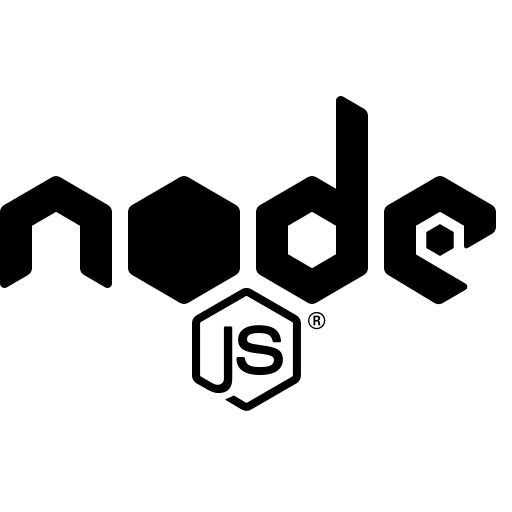
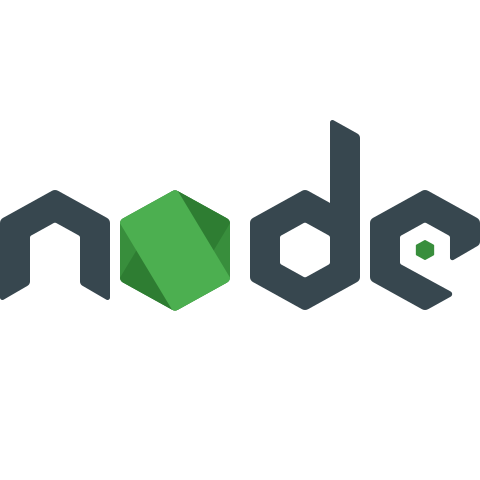
Added the tech images for skills

Changed region(s): [[0.0, 0.1875, 1.0, 0.8125]]

diff --git a/src/app/projects/page.jsx b/src/app/projects/page.jsx
@@ -8,13 +8,13 @@ const projects = [
         id: 1, 
         color: "from-[#1f2b3b] to-[#121c33]",
         title: "Queso Automation Framework",
-        desc: `I collaborated on the development of the Queso Automation Framework, 
-                a Full Stack Automation framework in C# for the Unity Engine. 
+        desc: `Queso is an automation framework we developed internally for Unity Applications. 
+                I collaborated on the development of Queso as a Full Stack application in C# and using MySQL and PosgreSQL for backend. 
                 This framework set a new standard for our Quality Engineering team and 
                 has become a key automation tool for all Unity projects. I successfully 
                 implemented this framework in multiple projects across various platforms.`,
         img: "/images/automation.jpg", 
-        techImg: ["C#", "Unity", "Postman", "PostgreSQL"],
+        techImg: ["Unity", "C#", "Java", "PostgreSQL", "Postman", "Confluence"],
         link: "https://unity.com/how-to/automated-tests-unity-test-framework",
     },
     {
@@ -34,7 +34,7 @@ const projects = [
         id: 3,
         color: "from-[#1f2b3b] to-[#121c33]",
         title: "VRChat Android Port",
-        desc: `I was part of the team that collaborated with the VRChat team to port the application to mobile platforms. 
+        desc: `I was in team that collaborated with the VRChat developers to port the application to mobile platforms. 
                 My role focused on testing and automation, contributing to the successful adaptation of the application for mobile use. 
                 I played a key role in ensuring its functionality and performance on mobile devices were up to standard.`,
         img: "/images/vrchat.png",
@@ -45,7 +45,7 @@ const projects = [
         id: 4,
         color: "from-[#1f2b3b] to-[#121c33]",
         title: "AppleTV Prehistoric Planet Immersive",
-        desc: `I was involved in a confidential film production project for Apple TV+ show "Prehistoric Planet," 
+        desc: `A confidential film production project for Apple TV+ show "Prehistoric Planet," 
                 aimed at creating a VR experience for the unreleased Apple Vision Pro. As an automation engineer, I developed 
                 tools in Python to track the progress of the render farm and analyze faults in the build pipeline. These tools 
                 included a log parser and statistic extractor for each node, as well as graphing tools for monitoring memory usage, 
@@ -58,7 +58,7 @@ const projects = [
         id: 5,
         color: "from-[#1f2b3b] to-[#121c33]",
         title: "Maloka VR",
-        desc: `I was part of the team working on the Maloka VR application, where I focused on testing and automation. 
+        desc: `Maloka is a VR application that transports the user into an immersive world for exploration, reflection, healing, and play, where I focused on testing and automation. 
                 Unlike previous projects, I was also involved in the CI/CD pipeline, ensuring smooth deployment and integration processes. 
                 For automated testing, I used GameDriver and Cypress, contributing to the application's quality and efficiency.`,
         img: "/images/maloka.jpg",
@@ -69,7 +69,7 @@ const projects = [
         id: 6,
         color: "from-[#1f2b3b] to-[#121c33]",
         title: "Adaptive Bandwidth Throttling for Telus",
-        desc: `I served as the technical lead for the Adaptive Bandwidth Throttling project with TELUS Communications. 
+        desc: `As the technical lead for the Adaptive Bandwidth Throttling project with TELUS Communications. 
             My role involved overseeing project infrastructure, developing design patterns, and implementing new features. 
             Our collaboration resulted in a successful solution that significantly improved user experience and garnered 
             recognition from TELUS executives and coverage in a University of Calgary publication.`,
@@ -81,7 +81,7 @@ const projects = [
         id: 7,
         color: "from-[#1f2b3b] to-[#121c33]",
         title: "Research on Force Depression in Muscle Fiber Types",
-        desc: `I was part of a research team studying force depression in different muscle fibers. 
+        desc: `Studying force depression in different muscle fibers. 
             We used rabbit muscles to measure force changes during active fiber shortening. 
             By analyzing the data and coding tools for extraction, we found that Type II fibers 
             have greater force depression than Type I fibers when shortening at a certain speed. 
@@ -93,17 +93,15 @@ const projects = [
     },
 ];
 
-
-
 const ProjectsPage = () => {
     return (
         <motion.div
             initial={{y:"-200vh"}}
             animate={{y:"0%"}}
             transition={{duration:1}}
-            className="flex relative h-auto flex-col text-lft md:flex-row max-w-full px-10 justify-evenly mx-auto items-center overflow-y-hidden overscroll-x-auto"
+            className="flex relative h-auto flex-col md:flex-row max-w-full px-10 justify-evenly mx-auto items-center"
         >
-            <div className={"h-auto flex space-x-5 overflow-x-scroll p-10 snap-x projects-page"}>
+            <div className={"h-auto w-full flex space-x-10 overflow-x-scroll p-1 snap-x snap-mandatory projects-page scrollbar scrollbar-track-[#0f172a] scrollbar-w-3 scrollbar-thumb-[#9cb9ec] scrollbar-thumb-rounded-full scrollbar-track-rounded-full"}>
                 {projects.map((project) => (   
                     <ExperienceCard project={project} key={project.id}/>
                 ))}

diff --git a/src/components/experienceCard.jsx b/src/components/experienceCard.jsx
@@ -1,35 +1,64 @@
 import React from 'react';
 import {motion} from "framer-motion";
 import Image from "next/image";
+import Link from "next/link";
 
 // dictionary of tech icon names and src for the images locally stored in the public/images/techIcons folder
 const techIcons = {
     "C#": "/images/techIcons/c-sharp.png",
-    "Unity": "/images/techIcons/unity.png",
-    "Postman": "/images/techIcons/postman.png",
-    "PostgreSQL": "/images/techIcons/postgresql.png",
     "C++": "/images/techIcons/c++.png",
-    "Java": "/images/techIcons/java.png",
-    "MATLAB": "/images/techIcons/matlab.png",
-    "Python": "/images/techIcons/python.png",
-    "Jenkins": "/images/techIcons/jenkins.png",
-    "Docker": "/images/techIcons/docker.png",
-    "Git": "/images/techIcons/git.png",
-    "GitHub Actions": "/images/techIcons/Github Actions.png",
-    "Jira": "/images/techIcons/jira.png",
-    "FramerMotion": "/images/techIcons/framer-motion.png",
-    "CI/CD": "/images/techIcons/cicd.png",
-    "Selenium": "/images/techIcons/selenium.png",
-    "Appium": "/images/techIcons/appium.png",  
+    "Confluence": "/images/techIcons/confluence.png",
     "Cucumber": "/images/techIcons/cucumber.png",
     "Cypress": "/images/techIcons/cypress.png",
+    "Docker": "/images/techIcons/docker.png",
+    "Flask": "/images/techIcons/flask.png",
+    "Framer Motion": "/images/techIcons/framer-motion.png",
+    "Git": "/images/techIcons/git.png",
+    "GitHub Actions": "/images/techIcons/github-actions.png",
+    "Java": "/images/techIcons/java.png",
+    "Javascript": "/images/techIcons/javascript.png",
+    "Jenkins": "/images/techIcons/jenkins.png",
+    "Jira": "/images/techIcons/jira.png",
+    "Junit 5": "/images/techIcons/junit.png",
+    "Linear": "/images/techIcons/linear.png",
+    "Linux": "/images/techIcons/linux.png",
+    "MATLAB": "/images/techIcons/matlab.png",
+    "Next.js": "/images/techIcons/nextjs.png",
+    "Node.js": "/images/techIcons/nodejs.png",
     "Playwright": "/images/techIcons/playwright.png",
+    "PostgreSQL": "/images/techIcons/postgresql.png",
+    "Postman": "/images/techIcons/postman.png",
+    "Python": "/images/techIcons/python.png",
+    "React": "/images/techIcons/react.png",
+    "Selenium": "/images/techIcons/selenium.png",
+    "Typescript": "/images/techIcons/typescript.png",
+    "Unity": "/images/techIcons/unity.png",
 }
 
+function Tooltip({ children, text }) {
+    const [show, setShow] = React.useState(false);
+
+    return (
+        <div
+            onMouseEnter={() => setShow(true)}
+            onMouseLeave={() => setShow(false)}
+            className="relative"
+        >
+            {children}
+            {show && (
+                <div
+                    className="absolute top-full left-1/2 transform -translate-x-1/2 mt-2 px-2 py-1 rounded bg-[#1f2b3b] text-[#9cb9ec] text-opacity-90 text-sm"
+                >
+                    {text}
+                </div>
+            )}
+        </div>
+    );
+}
 function ExperienceCard({ project }) {
     return (
         <article
-            className={"flex flex-col rounded-3xl items-center space-x-7 space-y-3 flex-shrink-0 snap-start w-[500px] md:w-[800px] xl:w-[1200px] p-10 bg-[#1f2b3b] bg-opacity-60 opacity-40 hover:opacity-100 cursor-pointer transition-opacity duration-200 overflow-hidden"}>
+            className={"flex flex-col rounded-3xl items-center space-x-1 space-y-3 flex-shrink-0 snap-center snap-always w-full sm:w-[500px] md:w-[800px] xl:w-[1200px] p-10 bg-[#1f2b3b] bg-opacity-60 opacity-90 hover:opacity-100 active:opacity-100 focus:opacity-100 cursor-pointer transition-opacity duration-200"}>
             <motion.img
                 initial={{
                     y: -100,
@@ -43,17 +72,25 @@ function ExperienceCard({ project }) {
                 className="w-[300px] h-[150px] rounded-lg md:w-[400px] md:h-[200px] xl:w-[700px] xl:h-[350px] object-cover object-center"
                 src={project.img} alt=""
             />
-            <div className="px-0 md:px-10">
+            <div className="px-0 md:px-10 flex flex-col justify-between flex-grow">
                 <h4 className="text-[#9cb9ec] text-opacity-90 font-semibold text-2xl">
                     {project.title}
                 </h4>
-                <div className="flex space-x-2 my-2 justify-center">
+                <div className="flex space-x-3 my-2 justify-center">
                     {project.techImg.map((tech) => (
-                        <Image alt="" key={techIcons[tech]} className={"rounded-full"} src={techIcons[tech]} height={40} width={40}/>
+                        <Tooltip text={tech} key={techIcons[tech]}>
+                            <Image alt="" className={"rounded-full"} src={techIcons[tech]} height={40} width={40}/>
+                        </Tooltip>
                     ))}
                 </div>
             </div>
             <p className={"text-[#9cb9ec] text-opacity-90 text-lg"}>{project.desc}</p>
+            <Link className="rel=noopener noreferrer" target="_blank" href={project.link}>
+                <button
+                    className="p-4 rounded bg-[#293444] text-[#9cb9ec] text-opacity-90 hover:bg-[#293444] hover:bg-opacity-60 hover:text-[#9cb9ec] text-lg font-semibold w-fit ring-1 ring-black">
+                    See Results
+                </button>
+            </Link>
         </article>
     );
 }

diff --git a/src/app/about/page.jsx b/src/app/about/page.jsx
@@ -23,7 +23,7 @@ const AboutPage = () => {
       animate={{y:"0%"}} 
       transition={{duration:1}}
     > 
-    <div className="h-full lg:flex overflow-auto" ref={containerRef}>
+    <div className="h-full lg:flex overflow-auto scrollbar scrollbar-track-[#0f172a] scrollbar-w-3 scrollbar-thumb-[#9cb9ec] scrollbar-thumb-rounded-full scrollbar-track-rounded-full" ref={containerRef}>
       {/* TEXT CONTAINER */}
       <div className="p-4 sm:p-8 md:p-12 lg:p-20 xl:p-30 flex flex-col gap-24 md:gap-32 lg:gap-40 xl:gap-64 lg:w-2/3 lg:pr-0 xl:w-1/2">
         {/* BIOGRAPHY SECTION */}
@@ -157,7 +157,6 @@ const AboutPage = () => {
                 animate={isExperienceRefInView ? {x:0} : {}}
                 transition={{delay:0.2}}
           >WORK HISTORY</motion.h1>
-          {/* TODO: look at the padding its not consistent on big screens */}
           {/* Experience List */}
           <motion.div
               initial={{x:"-300-px"}}
@@ -174,14 +173,14 @@ const AboutPage = () => {
                 </div>
                 <div className="p-2 text-sm font-semibold">Mar 2022 - Current</div>
                 <Link className="rel=noopener noreferrer" target="_blank" href="https://unity.com/our-company">
-                <button className="p-2 rounded bg-[#9cb9ec] text-[#222f42] tex-sm font-semibold w-fit ring-1 ring-black">
-                  Unity Technologies
+                  <button className="p-2 rounded bg-[#293444] text-[#9cb9ec] text-opacity-90 hover:bg-[#293444] hover:bg-opacity-60 hover:text-[#9cb9ec] tex-sm font-semibold w-fit ring-1 ring-black">
+                    Unity Technologies
                   </button>
                 </Link>
               </div>
               {/* Center */}
               <div className="w-1/6 ">
-                  {/* Line */}
+                {/* Line */}
                   <div className="w-1 h-full bg-[#9cb9ec] rounded relative">
                     {/* Circle */}
                     <div className="absolute w-5 h-5 rounded-full ring-4 ring-emerald-300 bg-[#9cb9ec] -left-2"></div>  
@@ -208,7 +207,7 @@ const AboutPage = () => {
                 <div className="p-3 text-sm italic">Arts IT</div>
                 <div className="p-3 text-[#9cb9ec] text-sm font-semibold">Jul 2019 - Apr 2022</div>
                 <Link className="rel=noopener noreferrer" target="_blank" href="https://www.ucalgary.ca/">
-                <button className="p-2 rounded bg-[#9cb9ec] text-[#222f42] tex-sm font-semibold w-fit ring-1 ring-black">
+                  <button className="p-2 rounded bg-[#293444] text-[#9cb9ec] text-opacity-90 hover:bg-[#293444] hover:bg-opacity-60 hover:text-[#9cb9ec] tex-sm font-semibold w-fit ring-1 ring-black">
                     University of Calgary
                   </button>
                 </Link>
@@ -222,7 +221,7 @@ const AboutPage = () => {
                 <div className="p-3 text-sm italic">Oxford Seminars</div>
                 <div className="p-3 text-[#9cb9ec] text-sm font-semibold">Sep 2016 - Oct - 2017</div>
                 <Link className="rel=noopener noreferrer" target="_blank" href="https://shaneschools.com/">
-                <button className="p-2 rounded bg-[#9cb9ec] text-[#222f42] tex-sm font-semibold w-fit ring-1 ring-black">
+                <button className="p-2 rounded bg-[#293444] text-[#9cb9ec] text-opacity-90 hover:bg-[#293444] hover:bg-opacity-60 hover:text-[#9cb9ec] tex-sm font-semibold w-fit ring-1 ring-black">
                   Shane School - China
                   </button>
                 </Link>
@@ -256,7 +255,7 @@ const AboutPage = () => {
                 <div className="p-3 text-sm italic">Sport and Prevention Injury Clinic</div>
                 <div className="p-3 text-[#9cb9ec] text-sm font-semibold">Jan 2013 - Sep 2016</div>
                 <Link className="rel=noopener noreferrer" target="_blank" href="https://kinesiology.ucalgary.ca/research/labs-and-centres/human-performance-lab">
-                  <button className="p-2 rounded bg-[#9cb9ec] text-[#222f42] tex-sm font-semibold w-fit ring-1 ring-black">
+                  <button className="p-2 rounded bg-[#293444] text-[#9cb9ec] text-opacity-90 hover:bg-[#293444] hover:bg-opacity-60 hover:text-[#9cb9ec] tex-sm font-semibold w-fit ring-1 ring-black">
                     Human Performance Lab
                   </button>
                 </Link>

diff --git a/src/app/page.jsx b/src/app/page.jsx
@@ -5,15 +5,14 @@ import Image from "next/image";
 const Homepage = () => {
   return (
     <motion.div className="h-full" initial={{y:"-200vh"}} animate={{y:"0%"}} transition={{duration:1}}> 
-    <div className="h-full flex flex-col px-4 sm:px-8 md:px-12 lg:px-20 xl:px-48 overflow-scroll">
+    <div className="h-full flex flex-col px-4 sm:px-8 md:px-12 lg:px-20 xl:px-48 overflow-y-scroll scrollbar scrollbar-track-[#0f172a] scrollbar-w-3 scrollbar-thumb-[#9cb9ec] scrollbar-thumb-rounded-full scrollbar-track-rounded-full">
       {/* Image Container */}
-      {/* TODO: need to figure out the bug that happens with smaller screens. the image overlaps the content container */}
-      <div className="h-1/2 relative">
-        <Image src="/images/world.png" alt="hero image" fill className="object-contain md:animate-breathe" />
+      <div className="flex-1 flex items-center justify-center">
+        <Image src="/images/world.png" alt="hero image" width={300} height={300} className="object-contain md:animate-breathe responsive-image"/>
       </div>
 
       {/* Content Container */}
-      <div className="h-2/3 flex flex-col gap-8 justify-center">
+      <div className="flex flex-1 flex-col gap-8 justify-center">
         {/* Title */}
         <h1 className="text-4xl text-center font-semibold md:text-6xl 
           bg-gradient-to-r from-sky-500 via-emerald-500 to-indigo-500 animate-gradient-x inline-block 
@@ -24,7 +23,7 @@ const Homepage = () => {
 
         {/* Description */}
         <p className="md:text-xl text-[#9cb9ec] text-opacity-90 text-left">
-          I'm Andres Caicedo, a Software Engineer from Colombia, based in Canada.
+          Hi my name's Andres Caicedo! I'm a Software Engineer from Colombia, based in Canada.
           With a strong foundation in software development and a love for system optimization,
           I've worked for over three years to improve software functionality and streamline processes.
           My technical skills cover a wide range of computer languages, including C#, C/C++, 

diff --git a/src/app/contact/page.jsx b/src/app/contact/page.jsx
@@ -47,7 +47,7 @@ const ContactPage = () => {
       animate={{ y: "0%" }}
       transition={{ duration: 1 }}
     >
-      <div className="h-full flex flex-col lg:flex-row px-4 sm:px-8 md:px-12 lg:px-20 xl:px-48">
+      <div className="h-full flex flex-col lg:flex-row px-4 sm:px-8 md:px-12 lg:px-20 xl:px-48 ">
         {/* TEXT CONTAINER */}
         <div className="h-1/2 lg:h-full lg:w-1/2 flex flex-col justify-evenly gap-y-20s overflow-hidden">
           <div className="flex justify-center lg:justify-start" style={{padding: '0 calc(5vw + 10px)'}}>

diff --git a/src/app/globals.css b/src/app/globals.css
@@ -11,5 +11,26 @@
     .projects-page {
         height: auto;
         overflow: hidden;
+    }    
+}
+
+@media (min-width: 640px) { /* For screens larger than 640px */
+    .responsive-image {
+        width: 300px;
+        height: 300px;
+    }
+}
+
+@media (min-width: 1024px) { /* For screens larger than 1024px */
+    .responsive-image {
+        width: 350px;
+        height: 350px;
+    }
+}
+
+@media (min-width: 1280px) { /* For screens larger than 1280px */
+    .responsive-image {
+        width: 400px;
+        height: 400px;
     }
 }

diff --git a/src/components/transitionProvider.jsx b/src/components/transitionProvider.jsx
@@ -17,7 +17,7 @@ const TransitionProvider = ({children}) => {
     
   return (
     <AnimatePresence mode="wait">
-        <div key={pathName} className="h-screen w-screen bg-gradient-to-b from-[#121c33] to-[#1f2b3b]">
+        <div key={pathName} className="h-screen w-screen overflow-auto bg-gradient-to-b from-[#121c33] to-[#1f2b3b]">
             <motion.div 
             className="h-screen w-screen fixed bg-[#121c33] rounded-b-[100px] z-40"
             animate={{height: "0vh"}}

diff --git a/tailwind.config.js b/tailwind.config.js
@@ -62,6 +62,13 @@ module.exports = {
       }
     },
   },
-  variants: {},
-  plugins: [],
+  variants: {
+      extend: {
+          opacity: ['active', 'focus'],
+      },
+  },
+  plugins: [
+      require('tailwind-scrollbar')(
+          { nocompatible: true, preferredStrategy: 'pseudoelements' }),
+  ],
 };
